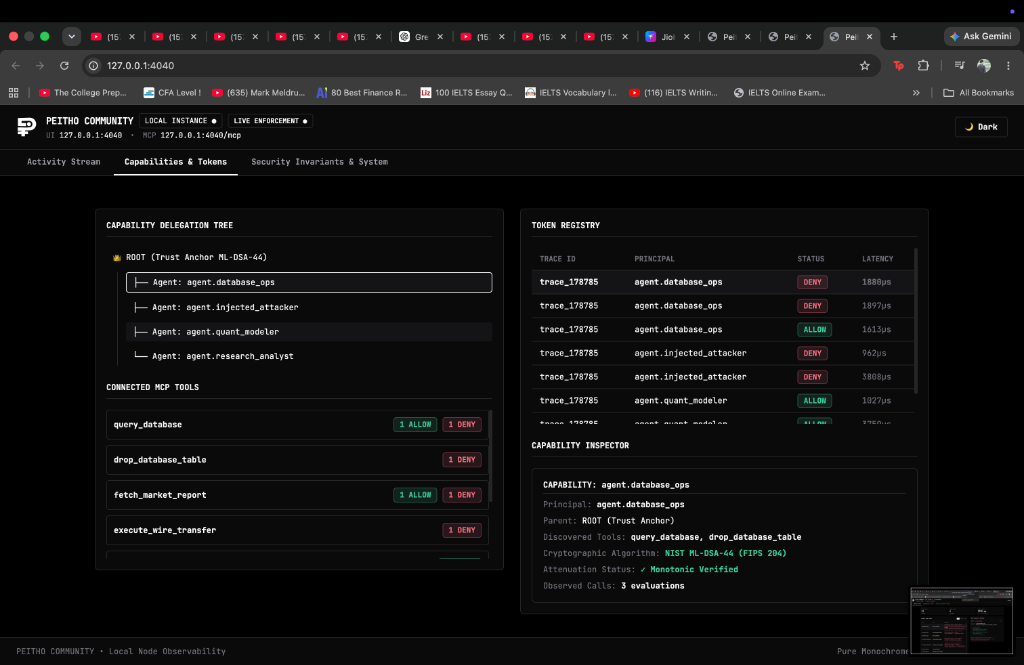
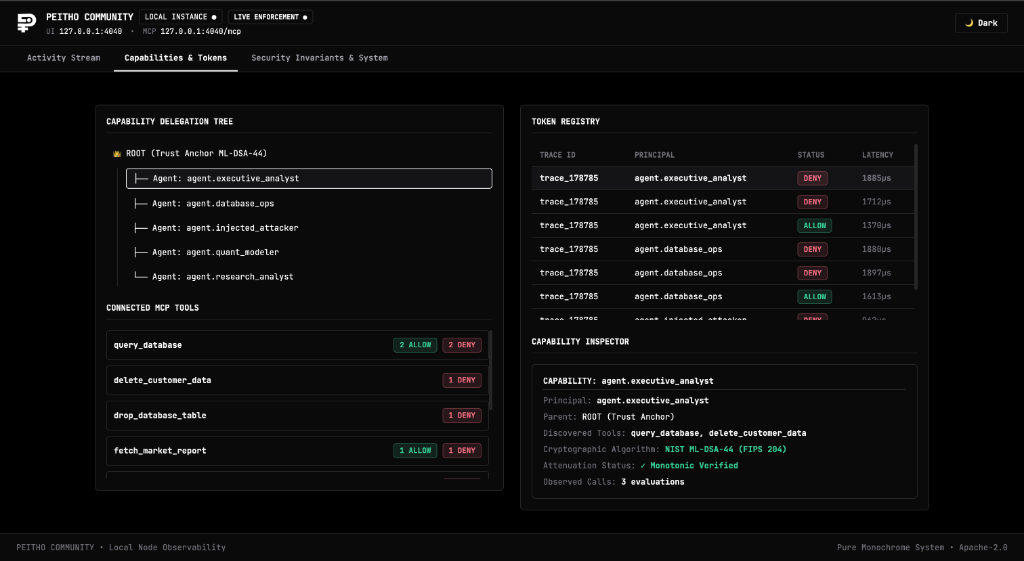
docs: use new high-resolution screenshots across README and Dashboard Guide

diff --git a/docs/DASHBOARD_GUIDE.md b/docs/DASHBOARD_GUIDE.md
@@ -4,7 +4,7 @@ The Peitho Dashboard (`http://127.0.0.1:4040`) is a **developer security microsc
 
 <div align="center">
 
-![Peitho Live Activity Stream](../assets/screenshots/dashboard_live_activity_stream.png)
+![Peitho Live Activity Stream](../assets/screenshots/dashboard_activity_stream.png)
 
 *Figure 1: Real-time telemetry stream showing 14 authorizations, allowed queries, and blocked prompt injection & DB destruction attempts.*
 
@@ -24,14 +24,6 @@ The dashboard is structured around 3 high-signal developer views:
 ## 1. 📊 Activity Stream (Live Observability & Forensics)
 
 The Activity Stream is the primary real-time monitoring view. It functions like Wireshark for autonomous AI agent tool calls.
-
-<div align="center">
-
-![Peitho Standby State](../assets/screenshots/dashboard_standby_zero_state.png)
-
-*Figure 2: Pristine zero-state awaiting live incoming agent MCP connections.*
-
-</div>
 
 ### Key Elements:
 * **Top Metric Cards**:
@@ -63,7 +55,7 @@ This view visualizes who authorized what and how permissions flowed through the 
 
 ![Peitho Capabilities Delegation Tree](../assets/screenshots/dashboard_capabilities_tree.png)
 
-*Figure 3: Live Capability Delegation Tree mapping dynamic agent swarms under the Genesis Root.*
+*Figure 2: Live Capability Delegation Tree mapping dynamic agent swarms under the Genesis Root.*
 
 </div>
 
@@ -72,6 +64,7 @@ This view visualizes who authorized what and how permissions flowed through the 
   * Visualizes the live hierarchy from Genesis Root down to child and grandchild subagents:
     ```text
     👑 ROOT (Trust Anchor ML-DSA-44)
+    ├── Agent: agent.executive_analyst
     ├── Agent: agent.database_ops
     ├── Agent: agent.injected_attacker
     ├── Agent: agent.quant_modeler
@@ -94,9 +87,15 @@ This view provides transparent mathematical assurance that the local kernel is o
 
 <div align="center">
 
-![Peitho Security Invariants Registry](../assets/screenshots/dashboard_security_invariants.png)
+![Peitho Security Invariants Registry](../assets/screenshots/dashboard_invariants_top.png)
 
-*Figure 4: The 18 formal mathematical invariants ($P-001 \rightarrow P-018$) and hardware crypto runtime health.*
+*Figure 3: Formal Mathematical Security Invariants Registry ($P-001 \rightarrow P-008$).*
+
+<br/>
+
+![Peitho System Runtime Diagnostics](../assets/screenshots/dashboard_invariants_system.png)
+
+*Figure 4: Invariants ($P-013 \rightarrow P-018$) and zero-network, local post-quantum runtime diagnostics.*
 
 </div>
 

diff --git a/README.md b/README.md
@@ -171,7 +171,7 @@ When running `peitho dev`, navigating to `http://127.0.0.1:4040` gives you a pur
 
 <div align="center">
 
-![Peitho Live Activity Stream](assets/screenshots/dashboard_live_activity_stream.png)
+![Peitho Live Activity Stream](assets/screenshots/dashboard_activity_stream.png)
 
 *Live cryptographic activity stream: monitoring real-time agent tool executions, sub-millisecond latencies, and blocked adversarial prompt injections.*
 
@@ -179,7 +179,7 @@ When running `peitho dev`, navigating to `http://127.0.0.1:4040` gives you a pur
 
 ![Peitho Capabilities Delegation Tree](assets/screenshots/dashboard_capabilities_tree.png)
 
-*Live capability delegation tree: dynamic tracking of multi-agent swarm hierarchies and active post-quantum token scopes.*
+*Live capability delegation tree: dynamic tracking of multi-agent swarm hierarchies, active post-quantum token scopes, and connected MCP tool boundaries.*
 
 </div>
 
